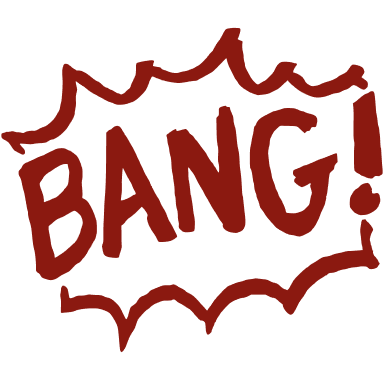
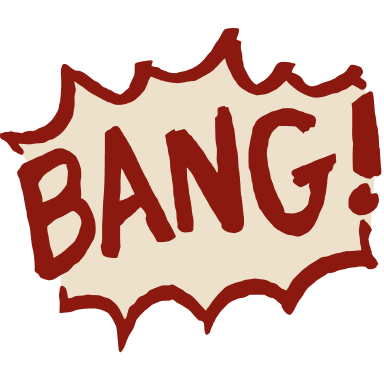
fuck it send it

diff --git a/src/app/page.tsx b/src/app/page.tsx
@@ -3,6 +3,7 @@
 import { useEffect, useState, useCallback } from "react";
 import { createClient } from "@supabase/supabase-js";
 import styles from "./page.module.css";
+import Image from "next/image";
 
 const supabase = createClient(
   process.env.NEXT_PUBLIC_SUPABASE_URL!,
@@ -13,6 +14,8 @@ interface LeaderboardEntry {
   nickname: string;
   score: number;
 }
+
+const enemyImages = ["/can1.png", "/can2.png", "/can3.png"];
 
 export default function Home() {
   const [bangs, setBangs] = useState<{ x: number; y: number; id: number }[]>([]);
@@ -33,19 +36,24 @@ export default function Home() {
   // This effect is for DOM manipulation related to the "bang" markers
   useEffect(() => {
     const gameFrame = document.getElementById("gameFrame");
-    const handleClick = (event: Event) => {
-      const mouseEvent = event as MouseEvent; // Type assertion
-      const gameFrame = document.getElementById("gameFrame");
+    const handleClick = (event: MouseEvent) => {
       if (!gameFrame) return;
 
       const rect = gameFrame.getBoundingClientRect();
-      const bangId = Date.now();
-      setBangs((prev) => [...prev, { x: mouseEvent.clientX - rect.left, y: mouseEvent.clientY - rect.top, id: bangId }]);
-      setTimeout(() => setBangs((prev) => prev.filter((bang) => bang.id !== bangId)), 250);
+      const bangId = Date.now() + Math.random(); // Ensures uniqueness
+      const rotation = Math.random() * 14 - 7; // Random rotation
+
+      setBangs((prev) => [
+        ...prev,
+        { x: event.clientX - rect.left, y: event.clientY - rect.top, id: bangId, rotation },
+      ]);
+
+      setTimeout(() => {
+        setBangs((prev) => prev.filter((bang) => bang.id !== bangId));
+      }, 250);
     };
 
     gameFrame?.addEventListener("click", handleClick);
-
     return () => gameFrame?.removeEventListener("click", handleClick);
   }, []);
 
@@ -74,11 +82,10 @@ export default function Home() {
       const rect = gameFrame.getBoundingClientRect();
       const x = event.clientX - rect.left;
       const y = event.clientY - rect.top;
-      const bangId = Date.now();
+      const bangId = Date.now() * Math.random();
 
       setBangs((prev) => [...prev, { x, y, id: bangId }]);
 
-      // Remove the "bang" after 0.25s
       setTimeout(() => {
         setBangs((prev) => prev.filter((bang) => bang.id !== bangId));
       }, 250);
@@ -97,10 +104,14 @@ export default function Home() {
       if (!gameFrame || !enemy) return;
 
       const { clientWidth: frameWidth, clientHeight: frameHeight } = gameFrame;
-      const enemySize = 40;
       enemy.style.position = "absolute";
-      enemy.style.left = `${Math.random() * (frameWidth - enemySize)}px`;
-      enemy.style.top = `${Math.random() * (frameHeight - enemySize)}px`;
+      enemy.style.width = "70px";
+      enemy.style.height = "120px";
+      enemy.style.backgroundImage = `url(${enemyImages[currentEnemy % enemyImages.length]})`;
+      enemy.style.backgroundSize = "cover";
+      enemy.style.backgroundPosition = "center";
+      enemy.style.left = `${Math.random() * (frameWidth - 70)}px`;
+      enemy.style.top = `${Math.random() * (frameHeight - 120)}px`;
       setSpawnTime(performance.now());
     };
 
@@ -127,14 +138,15 @@ export default function Home() {
 
   function iShoot(event: React.MouseEvent) {
     setEnemyHit(true);
-    setCurrentEnemy((prev) => prev + 1);
+
     setTimeout(() => {
       setEnemyHit(false);
+      setCurrentEnemy((prev) => prev + 1);
     }, 500);
 
     const enemy = event.currentTarget as HTMLElement;
     enemy.style.transition = "transform 0.5s ease-out, opacity 0.5s ease-out";
-    enemy.style.transform = `rotate(${Math.random() * 360}deg) scale(.5) translate(${(Math.random() - 0.5) * 300}px, ${(Math.random() - 0.5) * 300}px)`;
+    enemy.style.transform = `rotate(${Math.random() * 90}deg) scale(.75) translate(${(Math.random() - 0.75) * 300}px, ${(Math.random() - 0.5) * 500}px)`;
     enemy.style.opacity = "0";
 
     const reactionTime = performance.now() - spawnTime;
@@ -146,11 +158,9 @@ export default function Home() {
     );
     const maxDistance = Math.max(enemyRect.width, enemyRect.height) / 2;
     const accuracyScore = Math.max(0, 50 - (distance / maxDistance) * 50);
-    console.log("Accuracy Score:", accuracyScore)
     const speedScore = Math.max(0, (1 - reactionTime / 2000) * 50);
-    console.log("Speed Score:", speedScore)
 
-    setScore((prev) => prev + (Math.round((accuracyScore + speedScore)) * 10));
+    setScore((prev) => prev + Math.round((accuracyScore + speedScore) * 10));
   }
 
   async function submitScore() {
@@ -197,13 +207,20 @@ export default function Home() {
               id={`enemy${currentEnemy}`}
               className={`${styles.enemy} ${enemyHit ? styles.enemyHit : ""}`}
               onClick={iShoot}
-            ></div>
+            />
             {bangs.map((bang) => (
               <div
                 key={bang.id}
                 className={styles.bangMarker}
-                style={{ left: bang.x, top: bang.y }}
-              />
+                style={{
+                  left: bang.x - 60,
+                  top: bang.y - 60,
+                  transform: `rotate(${bang.rotation}deg)`,
+                  "--rotation": `${bang.rotation}deg` // For CSS animation
+                }}
+              >
+                <Image src={"/bang.png"} height={120} width={120} alt="bang" />
+              </div>
             ))}
           </>
         ) : (

diff --git a/src/app/page.module.css b/src/app/page.module.css
@@ -10,20 +10,17 @@
   overflow: hidden;
 }
 .enemy {
-  height: 64px;
-  width: 64px;
-  background-image: url("/monogram.png");
+  height: 120px;
+  width: 70px;
   background-size: cover; /* Ensures the image fills the element */
   background-position: center;
-  border-radius: 10000px;
+
 }
 .deadEnemy {
-  height: 64px;
-  width: 64px;
-  background-image: url("/monogram.png");
+  height: 120px;
+  width: 70px;
   background-size: cover; /* Ensures the image fills the element */
   background-position: center;
-  border-radius: 10000px;
   pointer-events: none;
 }
 .gameOver {
@@ -86,13 +83,13 @@
 }
 
 .bangMarker {
+  width: 120px;
+  height: 120px;
+  pointer-events: none;
+  /* background-image: url("/bang.png");
+  background-size: cover; */
   position: absolute;
-  width: 30px;
-  height: 30px;
-  background-color: orange;
-  border-radius: 50%;
-  transform: translate(-50%, -50%);
-  animation: bangAnimation 0.25s ease-out;
+  animation: bangAppear 0.25s ease-out;
 }
 
 @keyframes bangAnimation {
@@ -104,4 +101,21 @@
     transform: scale(2) translate(-50%, -50%);
     opacity: 0;
   }
+}
+@keyframes bangAppear {
+  0% {
+    transform: scale(0) rotate(var(--rotation));
+    opacity: 0;
+  }
+  50% {
+    transform: scale(1.15) rotate(var(--rotation));
+    opacity: 1;
+  }
+  100% {
+    transform: scale(1) rotate(var(--rotation));
+  }
+}
+
+.bangMarker {
+
 }

diff --git a/src/app/layout.tsx b/src/app/layout.tsx
@@ -1,11 +1,11 @@
 import type { Metadata } from "next";
-import { Inter } from "next/font/google";
+import { Archivo } from "next/font/google";
 import Image from "next/image";
 import CursorFollower from "./components/CursorFollower";
 import './global.css'
 
 
-const inter = Inter({
+const archivo = Archivo({
   subsets: ["latin"],
   display: "swap",
 });
@@ -24,7 +24,7 @@ export default function RootLayout({
   return (
     <html lang="en" style={{ margin: "0px", backgroundColor: "#EDE1CC" }}>
       <head></head>
-      <body className={inter.className} style={{ margin: "0px", cursor: "none" }}>
+      <body className={archivo.className} style={{ margin: "0px", cursor: "none" }}>
         <CursorFollower /> {/* Add this component */}
         <header style={{ padding: "12px 24px" }}>
           <Image src="/monogram.png" width={52} height={60} alt="Logo" />
